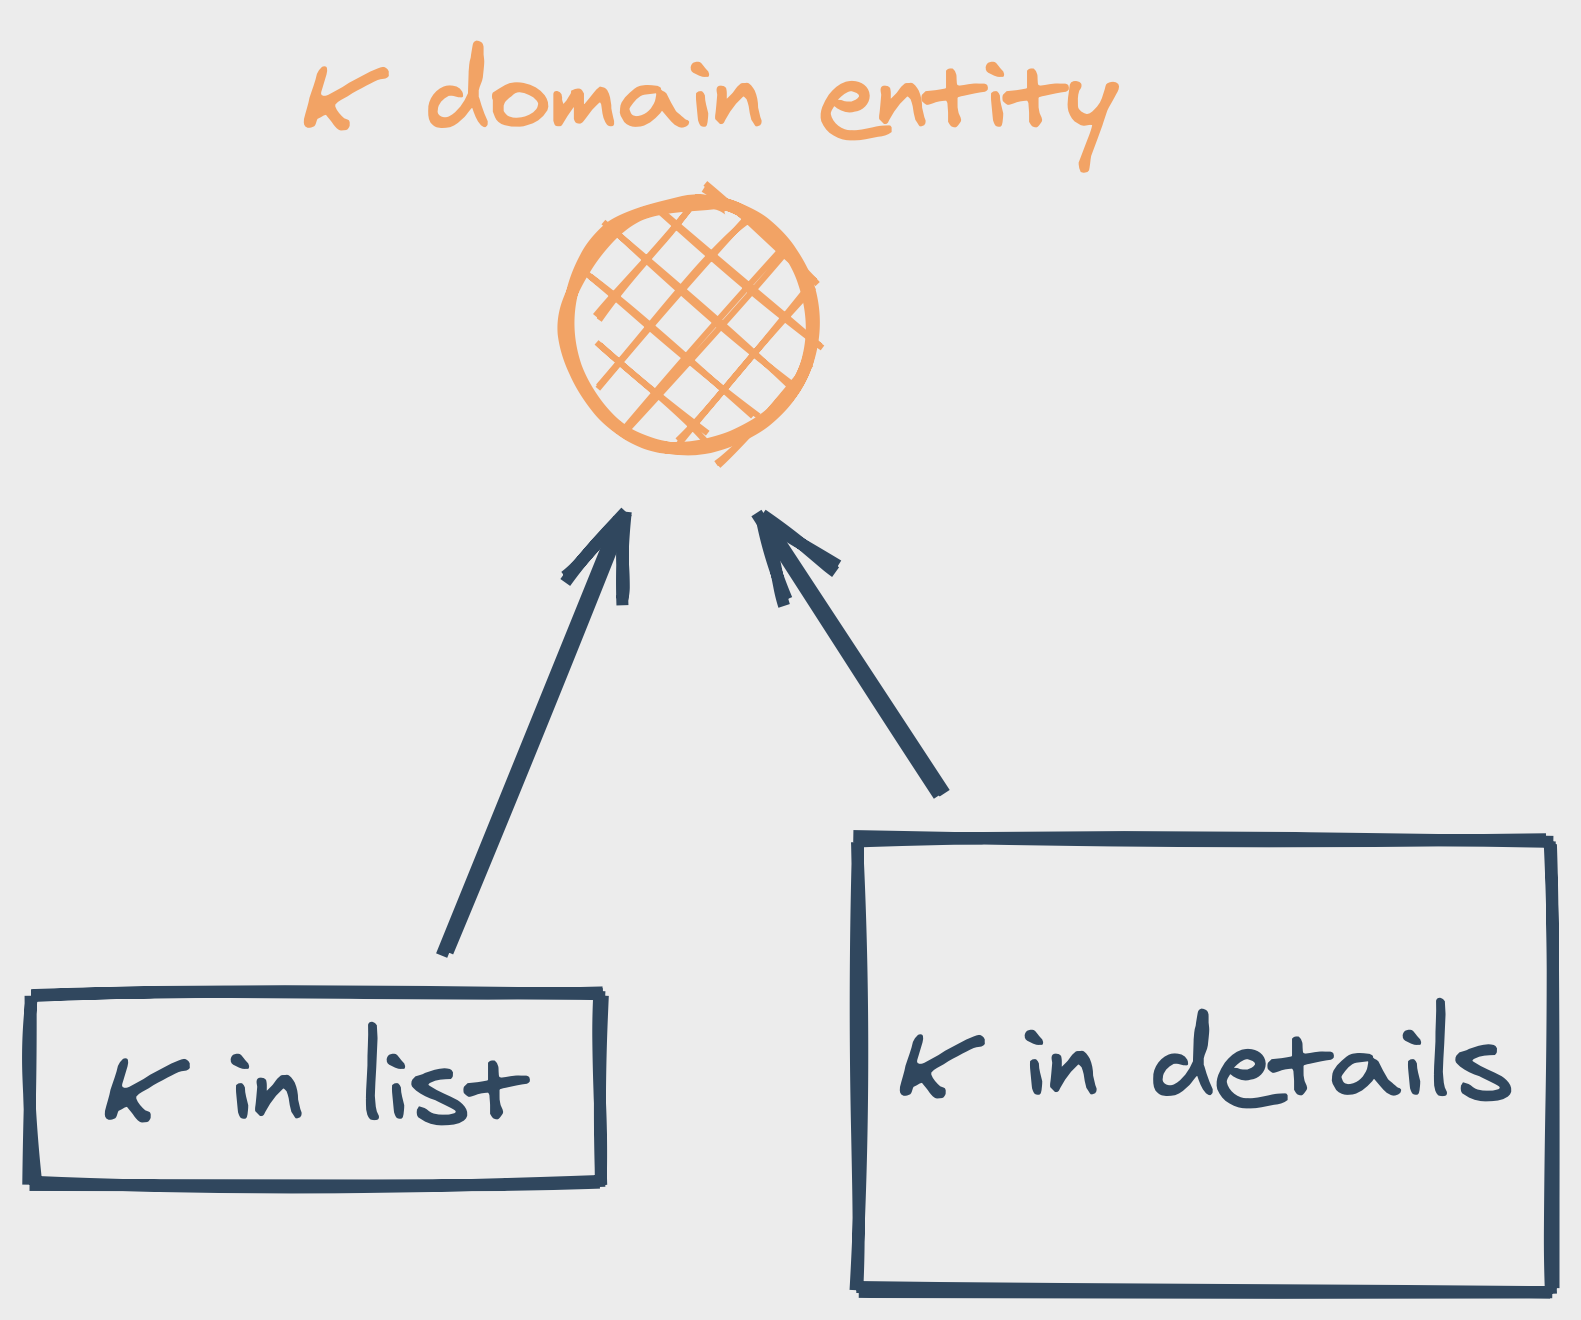
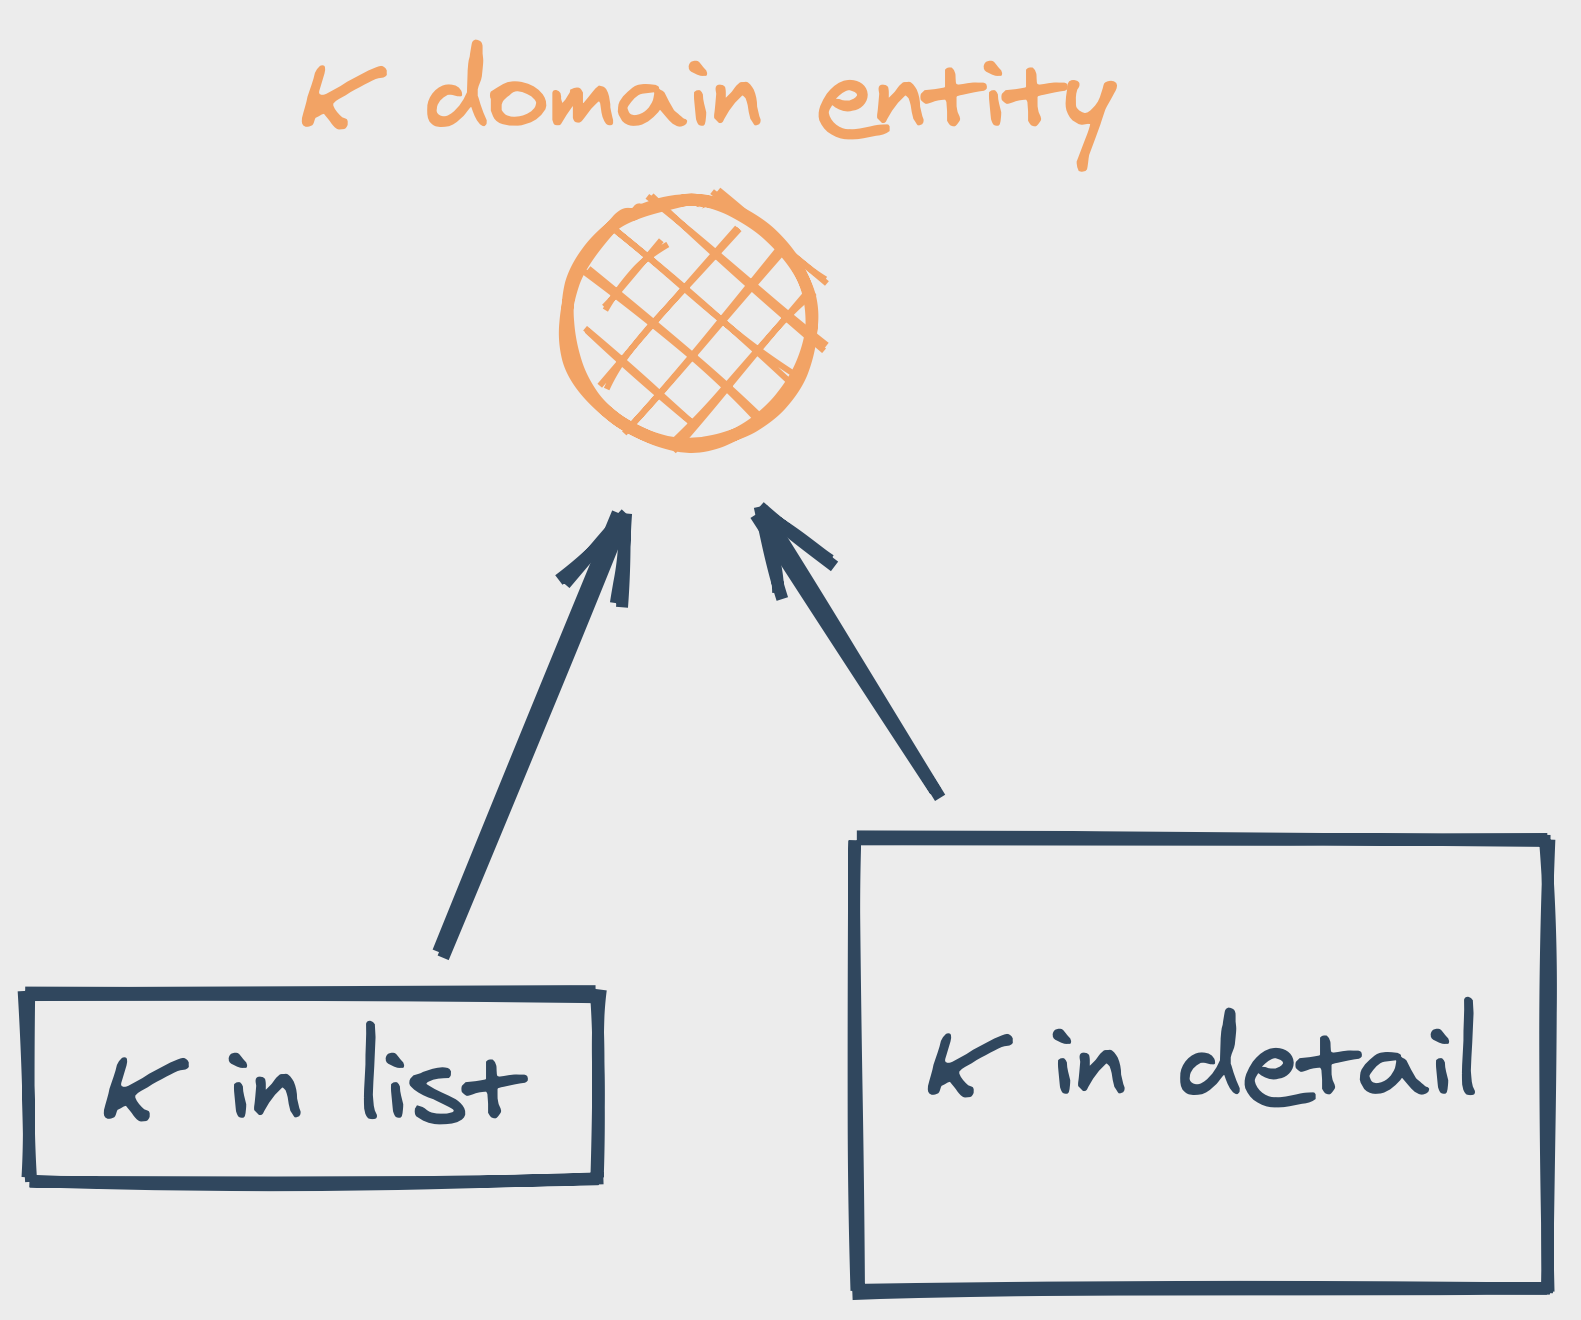
WIP

diff --git a/content/blog/data-duplication/index.md b/content/blog/data-duplication/index.md
@@ -10,34 +10,46 @@ Pretty much every modern data-driven application operates on lists of things. Th
 >
 > -- David Wallechinsky - "Book of Lists"
 
-When we do not love lists, we love looking for details. Who are commenting on Jane's post? Is XXL still in stock? Modern applications work based on this principle. They stimulate mindless swiping with long infinity lists. They stimulate tapping for details with visual hints and large hit boxes.
+When we do not love lists, we love looking for details. Who are commenting on Jane's post? Is XXL still in stock? Modern applications work based on this principle. They stimulate mindless swiping with long infinity lists. They stimulate tapping for more details with visual hints and large hit boxes.
 
 ![Imaginary deal](./figure-1.png)
 
 This scenario comes up a lot at work. The app invokes a request to fetch a list of popular boba tea shops. A user selects their most favorite. The app invokes a request to fetch the details of said boba tea shop (call it K).
 
-Recently, I have been asking myself. Are both K boba tea shops the same? Does the K returned from the list request point to the same thing as the K returned from the details request?
+Recently, I have been asking myself. Are both K boba tea shops the same? Does the K returned from the list request point to the same thing as the K returned from the detail request?
 
 ![K boba tea shop](./figure-2.png)
 
 When I first started writing front-ends, I had some dogmatic opinions of this. It is clear that both K refer to the same boba tea shop. How is it not be if there is only one entry for K in the database? How is it not be if when a user orders something, the transaction goes through that one and only K boba tea shop? To consider that the versions of K are different is to accept the fact that K is duplicated everytime someone adds a unique view of K. How many screens does an average boba tea application contain?
 
-Equipped with said opinions, I would declare only one slot for K in the front-end storage (Redux, for the experienced). Call it the domain entity. This domain entity represents every instance K is viewed. Whether K is returned from the list request or the details request, put it into the domain entity.
+Equipped with said opinions, I would declare only one slot for K in the front-end storage (Redux, for the experienced). Call it the domain entity. This domain entity represents every instance K is viewed. Whether K is returned from the list request or the detail request, put it into the domain entity.
 
 ![K domain entity](./figure-3.png)
 
 I felt pretty confident about this approach. It stays true to the Single Source of Truth™ principle. It enables trivial modifications to the domain entity without worrying about updating each invididual view. Ain't nobody got time for that.
 
-All is well, and suddenly a new requirement pops up. They plan to add extra labels (100% sale off or the like) which overlay the thumbnail image of K boba tea shop **on its details view**. To keep it simple for the client, it is decided that the thumbnail will be modified before it is returned with K in the details request. "Let the server guys take care of it" - reassuringly, the client devs talk to themselves.
+All is well, and suddenly a new requirement pops up. They plan to add extra labels (100% sale off or the like) which overlay the thumbnail image of K boba tea shop **on its detail view**. To keep it simple for the client, it is decided that the thumbnail will be modified before it is returned with K in the detail request. "Let the server guys take care of it." - reassuringly, the client devs talk to themselves.
 
 ![Can you spot it?](./figure-4.gif)
 
-Somehow, each time a user visits the details view of K, the thumbnail image in the list is **changed** to the one in the details view. The client devs ask the server guys. "Oh, we reuse the `image` field for the modified thumbnail". The client devs proceed to find clues in the code. **K returned from the list request also uses the `image` field for its thumbnail**.
+Somehow, each time a user visits the detail view of K, the thumbnail image in the list is **changed** to the one in the detail view. The client devs ask the server guys. "Oh, we reuse the `image` field for the modified thumbnail." The client devs proceed to find clues in the code. **K returned from the list request also uses the `image` field for its thumbnail**.
 
-Disregarding some major plot holes, combining K from list and details requests has created an interdependency between list and details views of K. Fetching details data for K has modified the `image` property of the **domain entity** of K, which in turn modified the list view that is depending on this domain entity.
+Disregarding some major plot holes, combining K from list and detail requests has created an interdependency between list and detail views of K. Fetching detail data for K has modified the `image` property of the **domain entity** of K, which in turn modified the list view that is depending on this domain entity.
 
-Tis but a small bug! An adapter to transform `image` in the details request to `labeled_image` in K domain entity should do the trick. For now, K in the list will use the `image` property, while K in details will refer to `labeled_image`. Decoupling has never been so easy.
+Tis but a small bug! An adapter to transform `image` in the detail request to `labeled_image` in K domain entity should do the trick. For now, K in the list will use the `image` property, while K in detail will refer to `labeled_image`. Decoupling has never been so easy.
 
 ![Decoupling image](./figure-5.png)
 
-As time goes by, the team grows, and so does the number of requirements and functions. "Let's add a banner!".  "How about a highlight over the shop name?". Views are added to satisfy users' needs. Adapters are created to keep the domain entity from getting improperly overwritten.
+As time goes by, the team grows, and so does the number of requirements and functions. "Let's add a banner!" "How about a highlight over the shop name?" Views are added to satisfy users' needs. Adapters are created to keep the domain entity from getting improperly overwritten. One day, a new developer adjusts the `description` property of K domain entity and suddenly the screen gets covered with promotion ads for G - the competing boba tea brand.
+
+You get the idea. The domain entity is monkey patched over and over again, up to the point where no one has the slightest idea what it really is. And we have not started on nested data and cicular dependencies.
+
+![Monkey patch](./figure-6.png)
+
+To a certain extent, creating a domain entity eases the maintainance cost of any source of truth in the application. Go over that limit and you are greeted with one heck of a spaghetti dish. What if I throw the domain entity away? By giving to the fact that users can look at a piece of data from an insurmountable number of perspectives, I persuade myself to see each slice of K boba tea shop as unique. It does not matter if K returned from the list request has the same name as K returned from the detail request. Each one is scoped to only its local view.
+
+![Detail request](./figure-7.png)
+
+It looks like the problem with interdependency between views has been resolved. If the detail request handler wants to modify the `image` field to accomodate for an animating elephant, the client devs do not have to worry about the list not having enough _room_.
+
+It took me quite a few projects to fully embrace this approach. To be honest, one of the reason for my change of heart was seeing how an application scales out to more than one developer.
